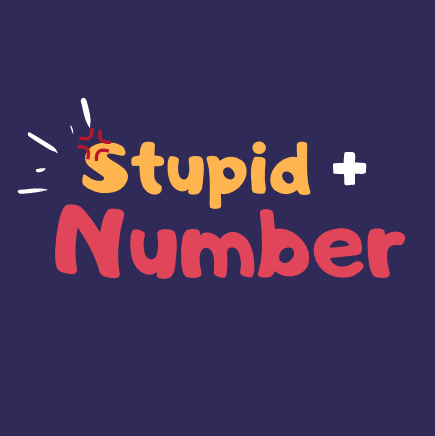
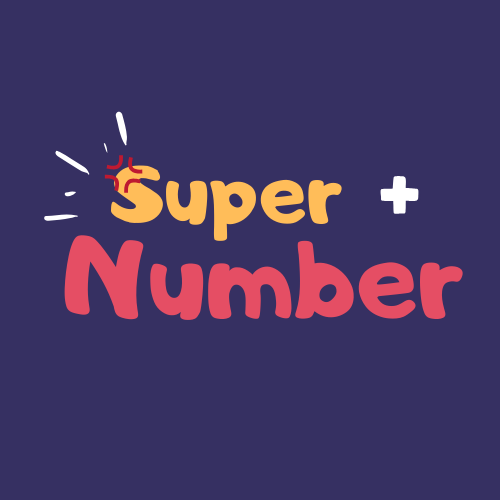
fix some things

diff --git a/lib/pages/home_page.dart b/lib/pages/home_page.dart
@@ -1,10 +1,12 @@
 import 'dart:io';
 
+import 'package:admob_flutter/admob_flutter.dart';
 import 'package:flame/flame.dart';
 import 'package:flutter/material.dart';
 import 'package:google_fonts/google_fonts.dart';
 import 'package:stupidnumber/components/game_button.dart';
 import 'package:stupidnumber/pages/game_page.dart';
+import 'package:stupidnumber/services/admob_service.dart';
 import 'package:url_launcher/url_launcher.dart';
 
 class HomePage extends StatelessWidget {
@@ -12,6 +14,12 @@ class HomePage extends StatelessWidget {
 
   @override
   Widget build(BuildContext context) {
+    AdmobInterstitial interstitialAd;
+    AdMobService adMobService = AdMobService();
+
+    interstitialAd = AdmobInterstitial(
+      adUnitId: adMobService.getInterstitialAdUnitId(),
+    );
     final double _screenWidth = MediaQuery.of(context).size.width;
     final double _screenHeight = MediaQuery.of(context).size.height;
     final double _screenWH = _screenHeight / _screenWidth;
@@ -197,6 +205,8 @@ class HomePage extends StatelessWidget {
               child: GameButton(
                 onPressed: () {
                   Flame.audio.play('click.mp3', volume: 50.0);
+                  //Ads
+                  interstitialAd.load();
                 },
                 height: _screenWH * 28,
                 width: _screenWH * 120,
@@ -209,7 +219,7 @@ class HomePage extends StatelessWidget {
                       child: Icon(Icons.wc, color: Colors.white),
                     ),
                     Text(
-                      'Support me',
+                      'Support us',
                       style: GoogleFonts.sigmarOne(
                           color: Colors.white, fontSize: _screenWH * 10),
                     ),
@@ -223,7 +233,64 @@ class HomePage extends StatelessWidget {
                 onPressed: () {
                   Flame.audio.play('click.mp3', volume: 50.0);
 
-                  launch('https://dver.now.sh/');
+                  // Navigator.pop(context);
+                  // Navigator.pushReplacement(
+                  //   context,
+                  //   MaterialPageRoute(builder: (context) => GamePage(gamePlay: 'superhuman',)),
+                  // );
+                  showDialog(
+                      context: context,
+                      builder: (BuildContext context) {
+                        return AlertDialog(
+                          //backgroundColor: Color(0xffA04E68),
+                          backgroundColor: Colors.white,
+                          content: Container(
+                            width: _screenWH * 40,
+                            height: _screenWH * 40,
+                            child: Column(
+                              mainAxisAlignment: MainAxisAlignment.spaceAround,
+                              children: <Widget>[
+                                Text(
+                                  'Product of FINME',
+                                  style: GoogleFonts.sigmarOne(
+                                      color: Colors.black,
+                                      fontSize: _screenWH * 8),
+                                ),
+                                Text(
+                                  'Develop by Dver',
+                                  style: GoogleFonts.sigmarOne(
+                                      color: Colors.black,
+                                      fontSize: _screenWH * 8),
+                                ),
+                              ],
+                            ),
+                          ),
+                          actions: <Widget>[
+                            MaterialButton(
+                              onPressed: () {
+                                Navigator.pop(context);
+                              },
+                              child: Text(
+                                'Hide',
+                                style: GoogleFonts.sigmarOne(
+                                    color: Colors.red,
+                                    fontSize: _screenWH * 5),
+                              ),
+                            ),
+                            MaterialButton(
+                              onPressed: () {
+                                launch('https://dver.now.sh/');
+                              },
+                              child: Text(
+                                'More',
+                                style: GoogleFonts.sigmarOne(
+                                    color: Colors.blue,
+                                    fontSize: _screenWH * 5),
+                              ),
+                            ),
+                          ],
+                        );
+                      });
                 },
                 height: _screenWH * 28,
                 width: _screenWH * 120,

diff --git a/android/app/src/main/kotlin/com/dver/stupidnumber/MainActivity.kt b/android/app/src/main/kotlin/com/dver/stupidnumber/MainActivity.kt
@@ -1,4 +1,4 @@
-package com.dver.stupidnumber
+package com.finme.supernumber
 
 import androidx.annotation.NonNull;
 import io.flutter.embedding.android.FlutterActivity
